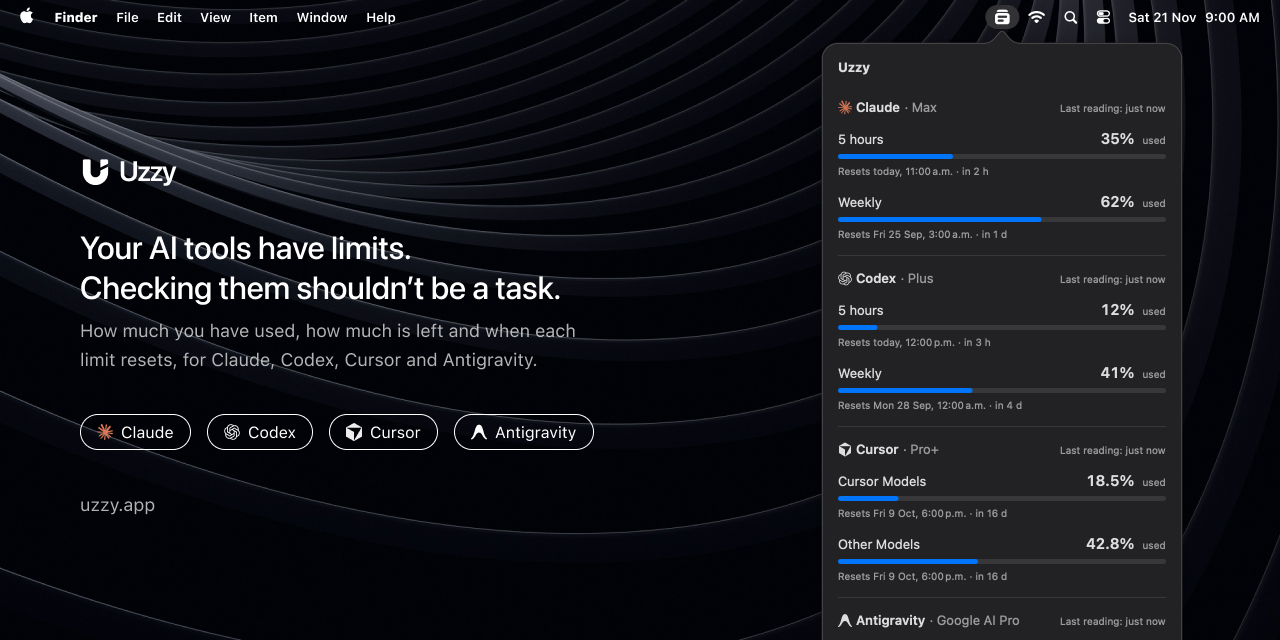
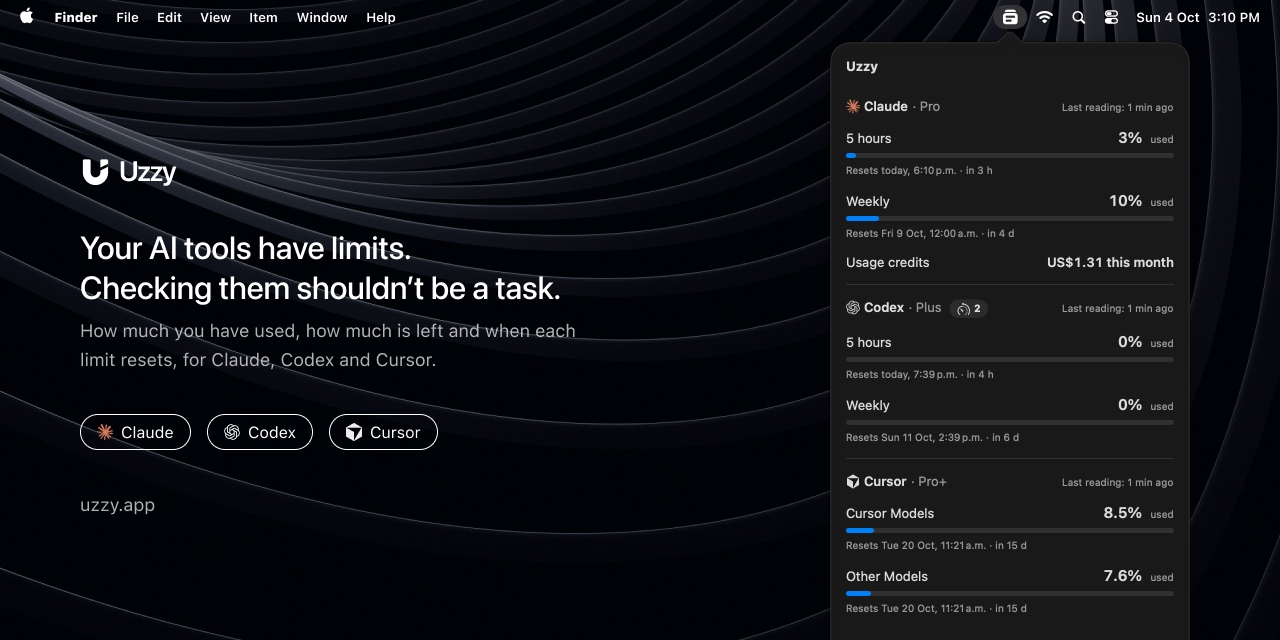
docs: remove Antigravity from README and social images
- Restore pre-Antigravity github-social.jpg from 76ba171.
- Refresh app.jpg and settings-providers.jpg without Antigravity and
  update their alt text in README.md.

diff --git a/README.md b/README.md
@@ -17,7 +17,7 @@
 </p>
 
 <p align="center">
-  <img src="docs/images/app.jpg" width="420" alt="The Uzzy panel open from the menu bar, with one card each for Claude, Codex, Cursor and Antigravity and each account's plan next to its title. Each usage limit has its own bar, its used percentage and its reset time.">
+  <img src="docs/images/app.jpg" width="420" alt="The Uzzy panel open from the menu bar, with one card each for Claude, Codex and Cursor and each account's plan next to its title. Each usage limit has its own bar, its used percentage and its reset time.">
 </p>
 
 ## Why Uzzy
@@ -36,7 +36,7 @@ Keep using Claude, Codex and Cursor. Uzzy brings their usage limits together so 
 
 <p align="center">
   <img src="docs/images/settings-general.jpg" width="260" alt="Uzzy Settings, General tab: Used / Left switch, Simple / Detailed reset countdown switch, resets available switch, update check switch, and installed version.">
-  <img src="docs/images/settings-providers.jpg" width="260" alt="Uzzy Settings, Providers tab: Claude, Codex, Cursor and Antigravity with reorder controls and switches to turn each provider on or off.">
+  <img src="docs/images/settings-providers.jpg" width="260" alt="Uzzy Settings, Providers tab: Claude, Codex and Cursor with reorder controls, Keychain access revoke control and switches to turn each provider on or off.">
   <img src="docs/images/settings-notifications.jpg" width="260" alt="Uzzy Settings, Notifications tab: background refresh interval and switches for near-limit, reached and reset alerts.">
 </p>
 
